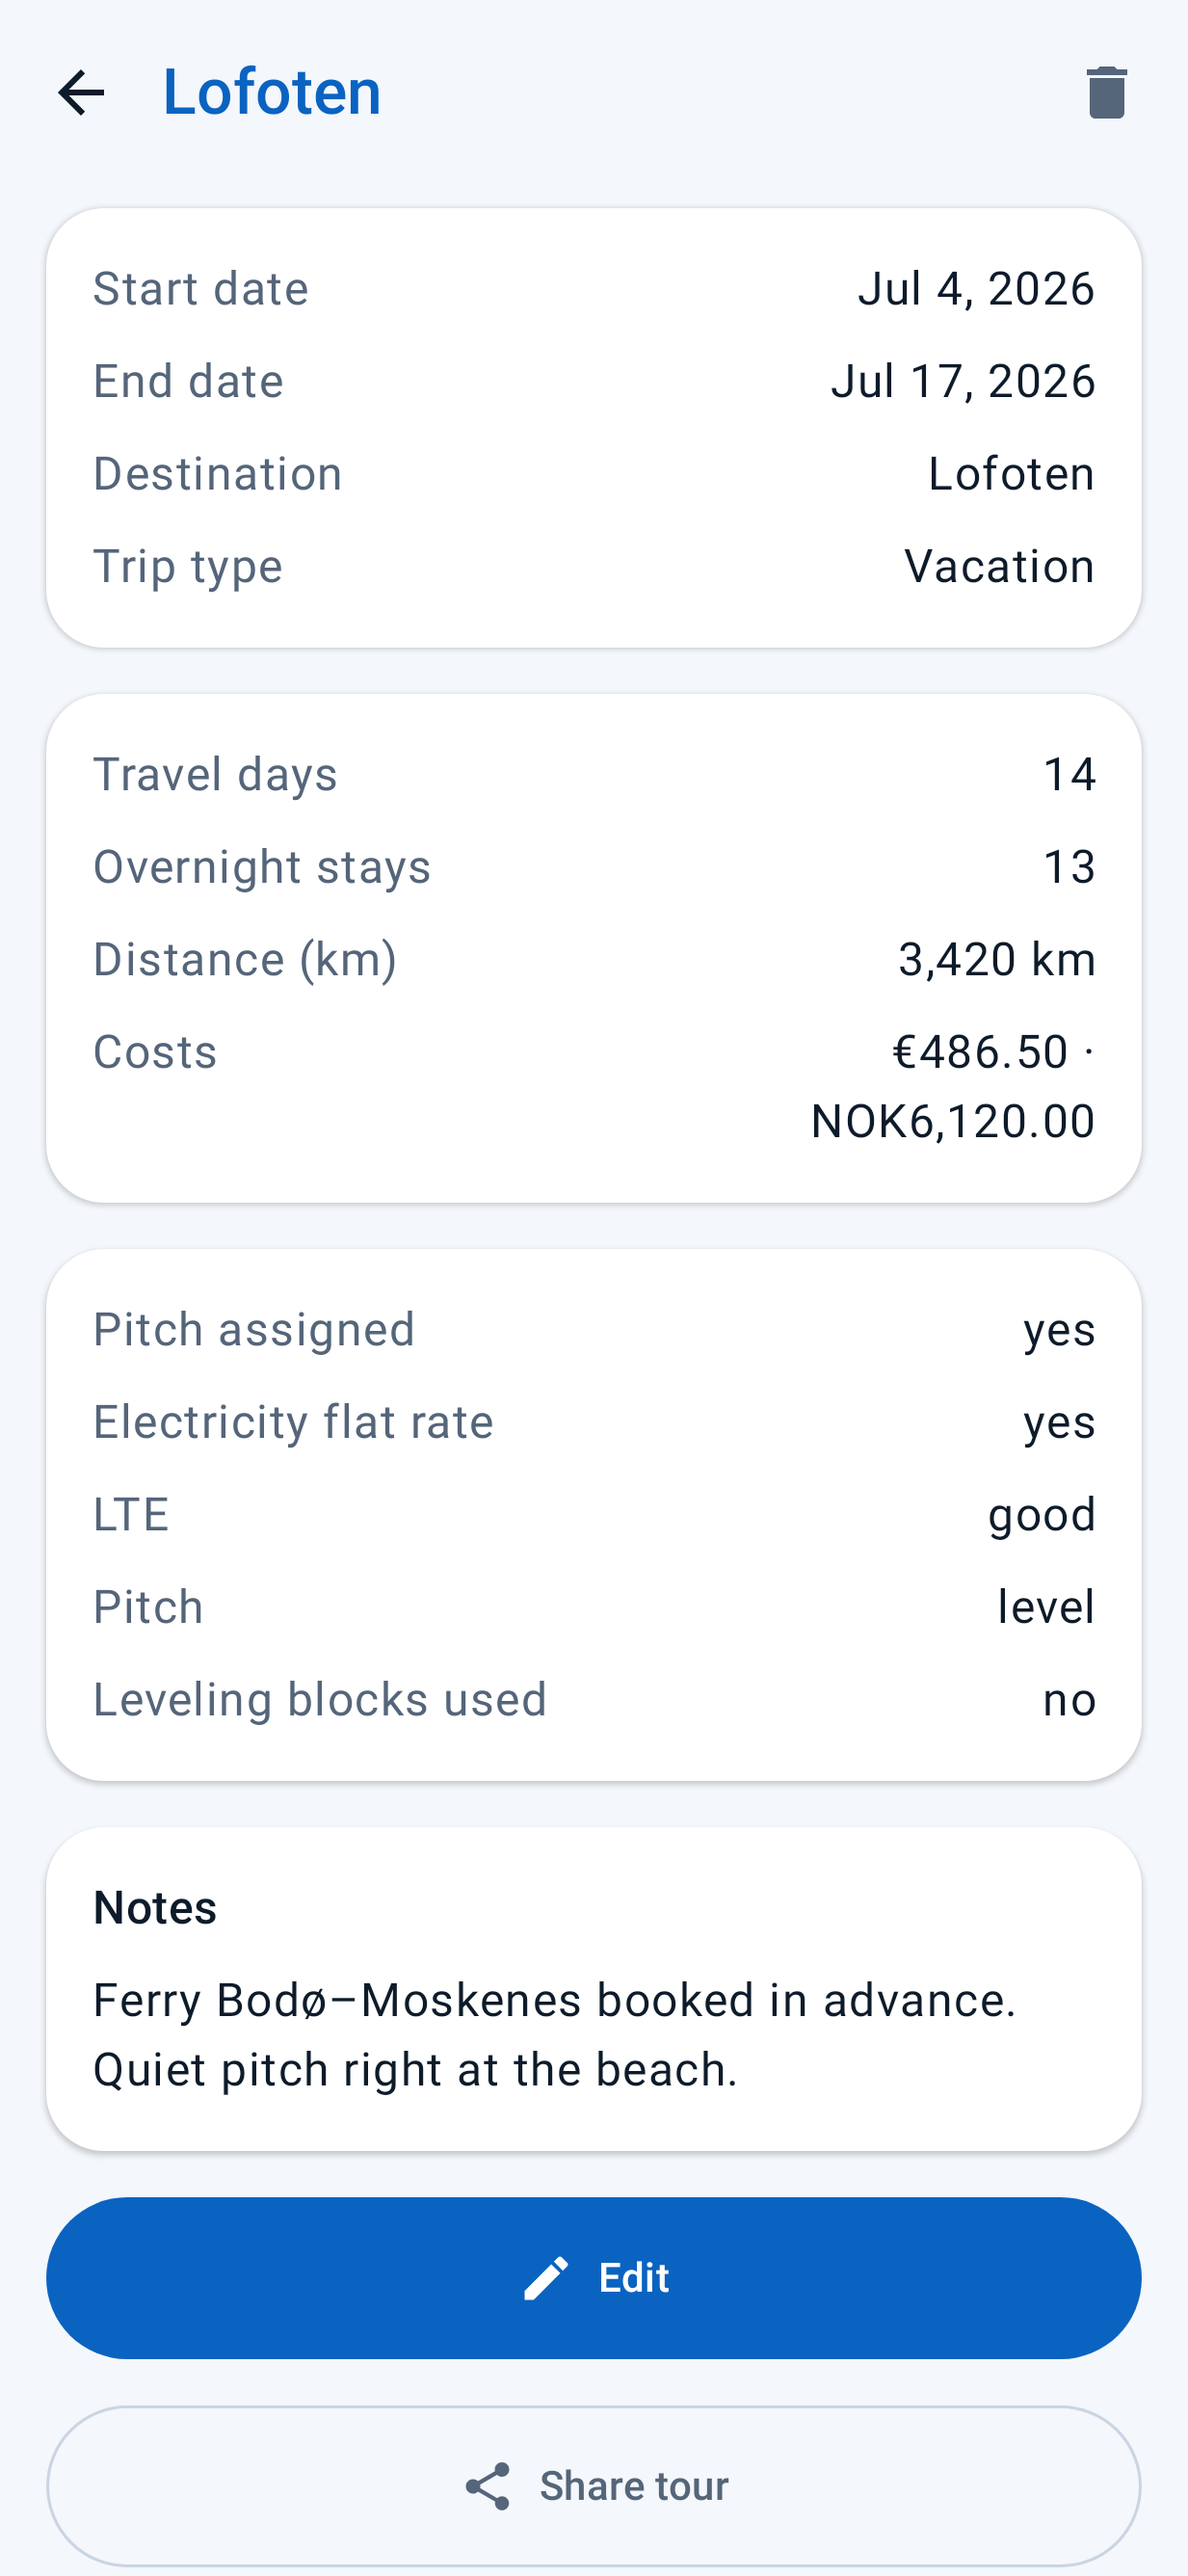
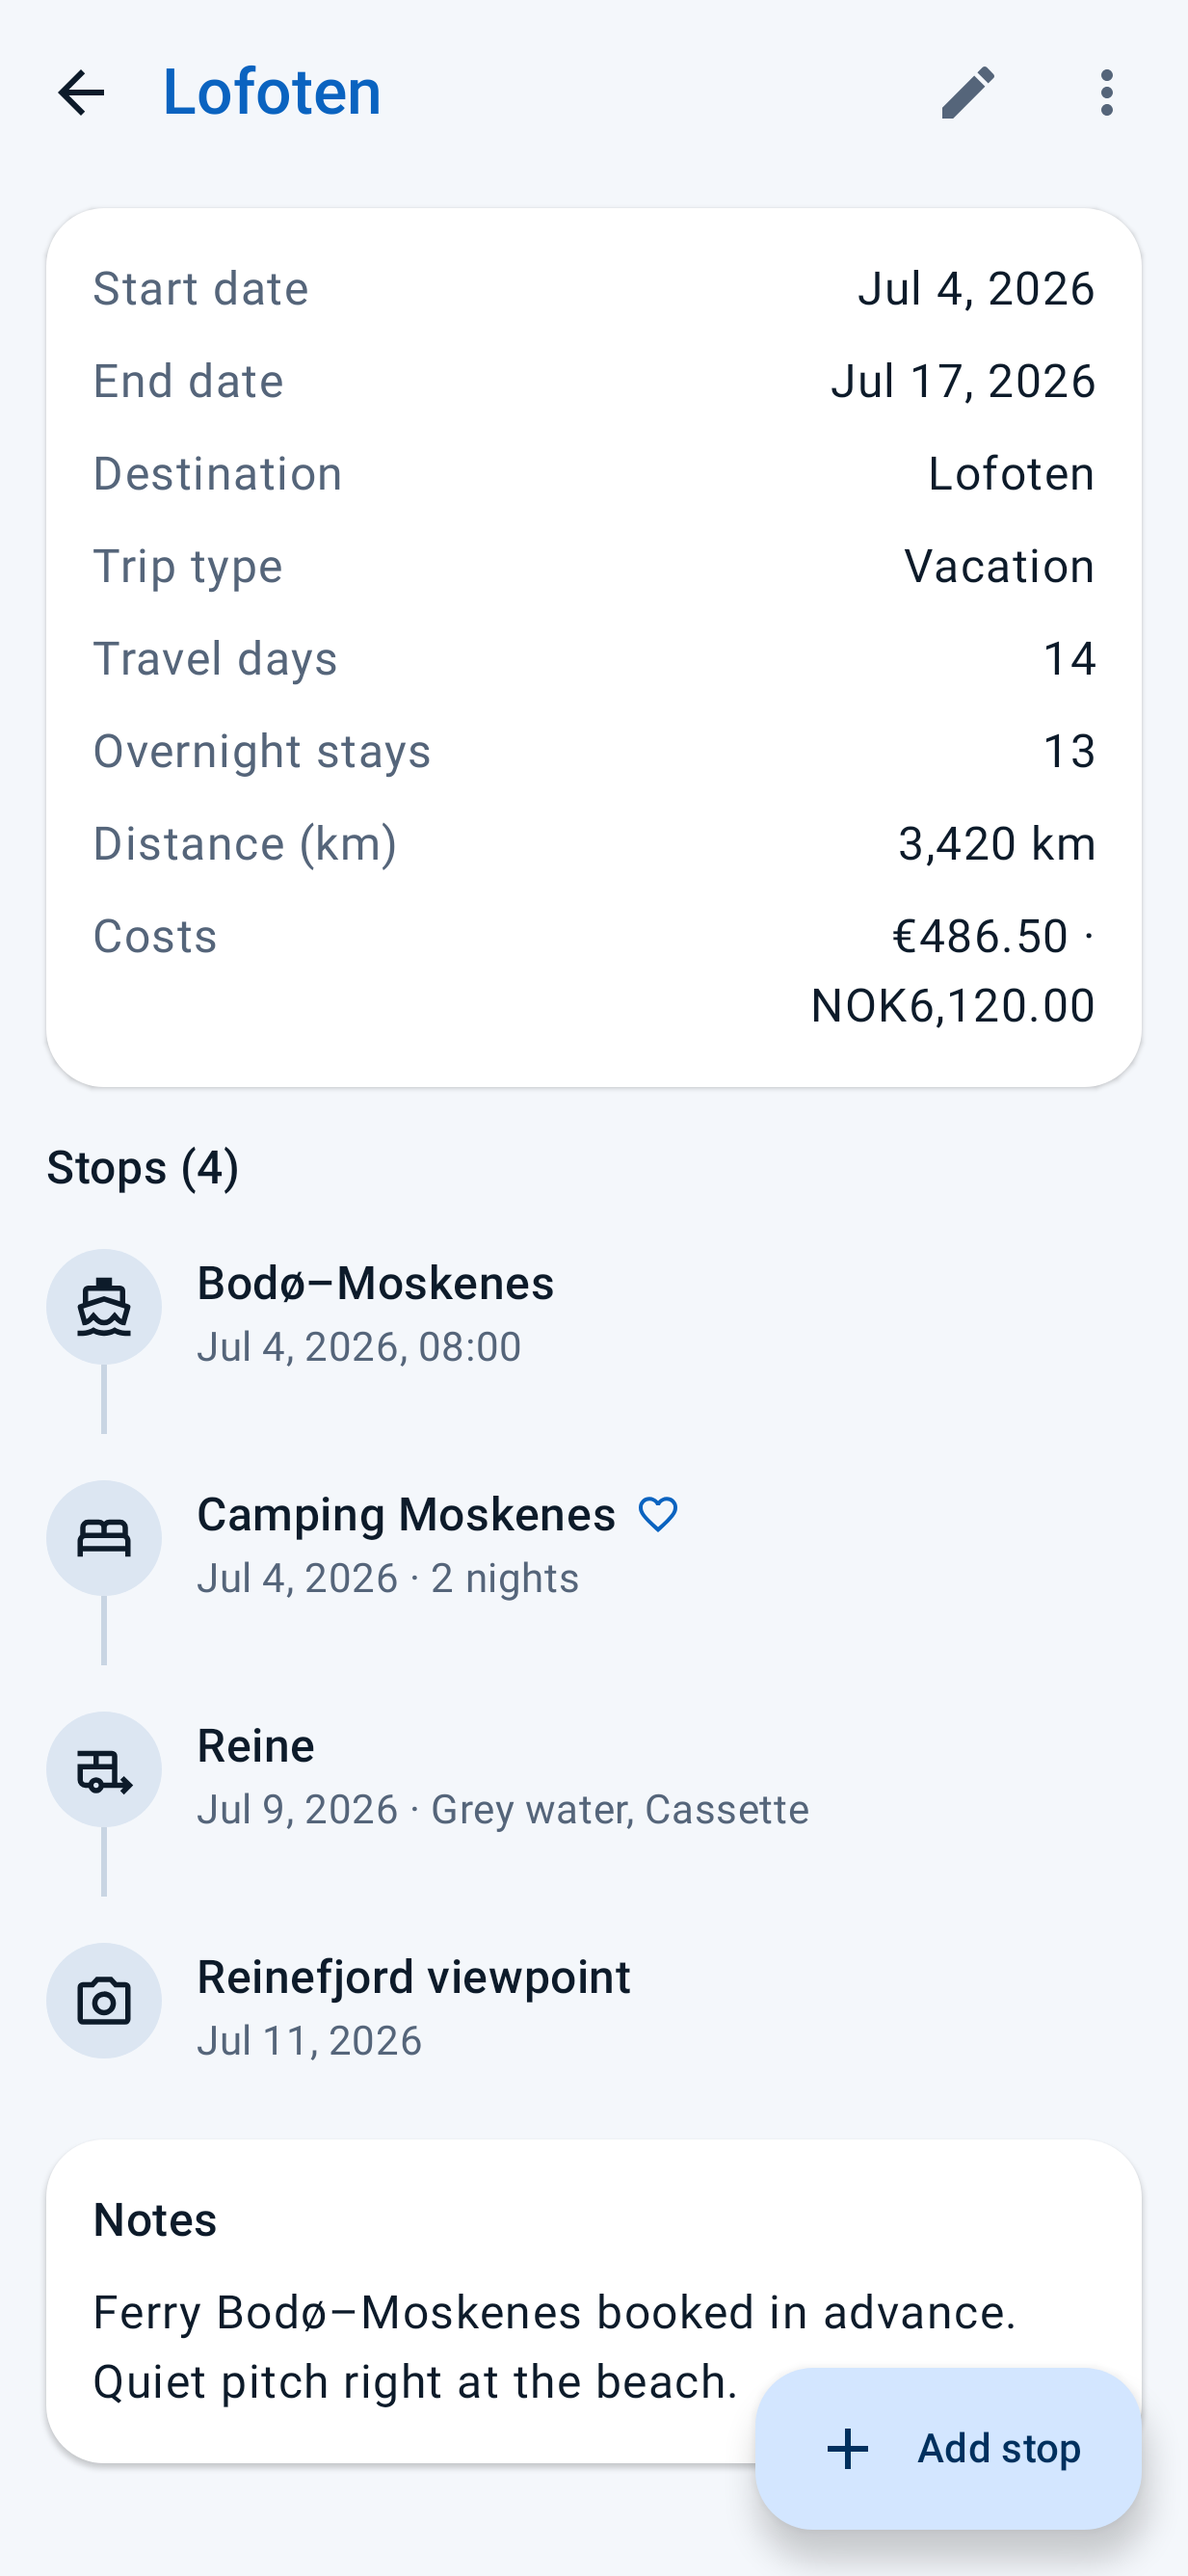
Add Lofoten sample stops and regenerate the tour detail screenshot

diff --git a/app/src/test/java/app/restvolt/camperlog/ui/ReadmeScreenshots.kt b/app/src/test/java/app/restvolt/camperlog/ui/ReadmeScreenshots.kt
@@ -13,9 +13,11 @@ import app.restvolt.camperlog.domain.EUR
 import app.restvolt.camperlog.domain.ExchangeRate
 import app.restvolt.camperlog.domain.LogEntry
 import app.restvolt.camperlog.domain.LogType
-import app.restvolt.camperlog.domain.LteQuality
 import app.restvolt.camperlog.domain.Money
-import app.restvolt.camperlog.domain.PitchSlope
+import app.restvolt.camperlog.domain.SiteKind
+import app.restvolt.camperlog.domain.Station
+import app.restvolt.camperlog.domain.StationService
+import app.restvolt.camperlog.domain.StationType
 import app.restvolt.camperlog.domain.Tour
 import app.restvolt.camperlog.domain.TourType
 import app.restvolt.camperlog.domain.Vehicle
@@ -33,6 +35,7 @@ import java.io.File
 import java.math.BigDecimal
 import java.time.Instant
 import java.time.LocalDate
+import java.time.LocalTime
 import java.util.Currency
 
 /**
@@ -62,7 +65,7 @@ class ReadmeScreenshots {
                     FakeTourRepository(sampleTours),
                     FakeVehicleRepository(listOf(sampleVehicle)),
                     FakeLogRepository(sampleLogEntries()),
-                    FakeStationRepository(),
+                    FakeStationRepository(sampleStations()),
                     FakeExchangeRateRepository(rates),
                     FakeBackupImporter(),
                     ThemeMode.LIGHT,
@@ -186,6 +189,64 @@ class ReadmeScreenshots {
                 )
             }
         }
+
+        /** Stationen der Lofoten-Tour (id 1): Fähre, Übernachtung mit „gerne wieder", Ver-/Entsorgung, Sehenswertes. */
+        fun sampleStations(): List<Station> = listOf(
+            Station(
+                id = 1,
+                uuid = "00000000-0000-4000-8000-0000000000c1",
+                vehicleId = 1,
+                tourId = 1,
+                type = StationType.FERRY,
+                date = LocalDate.of(2026, 7, 4),
+                time = LocalTime.of(8, 0),
+                name = "Bodø–Moskenes",
+                createdAt = Instant.parse("2026-07-04T08:00:00Z"),
+                updatedAt = Instant.parse("2026-07-04T08:00:00Z"),
+            ),
+            Station(
+                id = 2,
+                uuid = "00000000-0000-4000-8000-0000000000c2",
+                vehicleId = 1,
+                tourId = 1,
+                type = StationType.OVERNIGHT,
+                date = LocalDate.of(2026, 7, 4),
+                name = "Camping Moskenes",
+                place = "Moskenes, Norway",
+                latitude = 67.9336,
+                longitude = 13.0067,
+                nights = 2,
+                siteKind = SiteKind.CAMPSITE,
+                electricityFlatRate = ElectricityFlatRate.YES,
+                favorite = true,
+                createdAt = Instant.parse("2026-07-04T18:00:00Z"),
+                updatedAt = Instant.parse("2026-07-04T18:00:00Z"),
+            ),
+            Station(
+                id = 3,
+                uuid = "00000000-0000-4000-8000-0000000000c3",
+                vehicleId = 1,
+                tourId = 1,
+                type = StationType.SUPPLY,
+                date = LocalDate.of(2026, 7, 9),
+                name = "Reine",
+                place = "Reine, Norway",
+                services = setOf(StationService.CASSETTE, StationService.GREY_WATER),
+                createdAt = Instant.parse("2026-07-09T09:00:00Z"),
+                updatedAt = Instant.parse("2026-07-09T09:00:00Z"),
+            ),
+            Station(
+                id = 4,
+                uuid = "00000000-0000-4000-8000-0000000000c4",
+                vehicleId = 1,
+                tourId = 1,
+                type = StationType.SIGHT,
+                date = LocalDate.of(2026, 7, 11),
+                name = "Reinefjord viewpoint",
+                createdAt = Instant.parse("2026-07-11T12:00:00Z"),
+                updatedAt = Instant.parse("2026-07-11T12:00:00Z"),
+            ),
+        )
 
         val sampleTours = listOf(
             sample(

diff --git a/app/src/main/java/app/restvolt/camperlog/ui/detail/TourDetailScreen.kt b/app/src/main/java/app/restvolt/camperlog/ui/detail/TourDetailScreen.kt
@@ -156,9 +156,8 @@ fun TourDetailScreen(
                 tour = current.tour,
                 vehicle = current.vehicle,
                 stations = current.stations,
-                modifier = Modifier
-                    .padding(padding)
-                    .fillMaxSize(),
+                modifier = Modifier.fillMaxSize(),
+                padding = padding,
                 onOpenStation = onOpenStation,
                 onAddStop = { showTypePicker = true },
             )
@@ -201,13 +200,20 @@ private fun TourDetails(
     vehicle: Vehicle?,
     stations: List<Station>,
     modifier: Modifier,
+    padding: PaddingValues,
     onOpenStation: (Long) -> Unit,
     onAddStop: () -> Unit,
 ) {
     val locale = currentLocale()
     LazyColumn(
         modifier = modifier,
-        contentPadding = PaddingValues(horizontal = 16.dp, vertical = 8.dp),
+        contentPadding = PaddingValues(
+            start = 16.dp,
+            end = 16.dp,
+            top = padding.calculateTopPadding() + 8.dp,
+            // Der Scaffold reserviert keinen Platz für den FAB; siehe ToursScreen.
+            bottom = padding.calculateBottomPadding() + 96.dp,
+        ),
         verticalArrangement = Arrangement.spacedBy(16.dp),
     ) {
         item {
@@ -277,7 +283,6 @@ private fun TourDetails(
                 }
             }
         }
-        item { Spacer(Modifier.size(80.dp)) }
     }
 }
 
